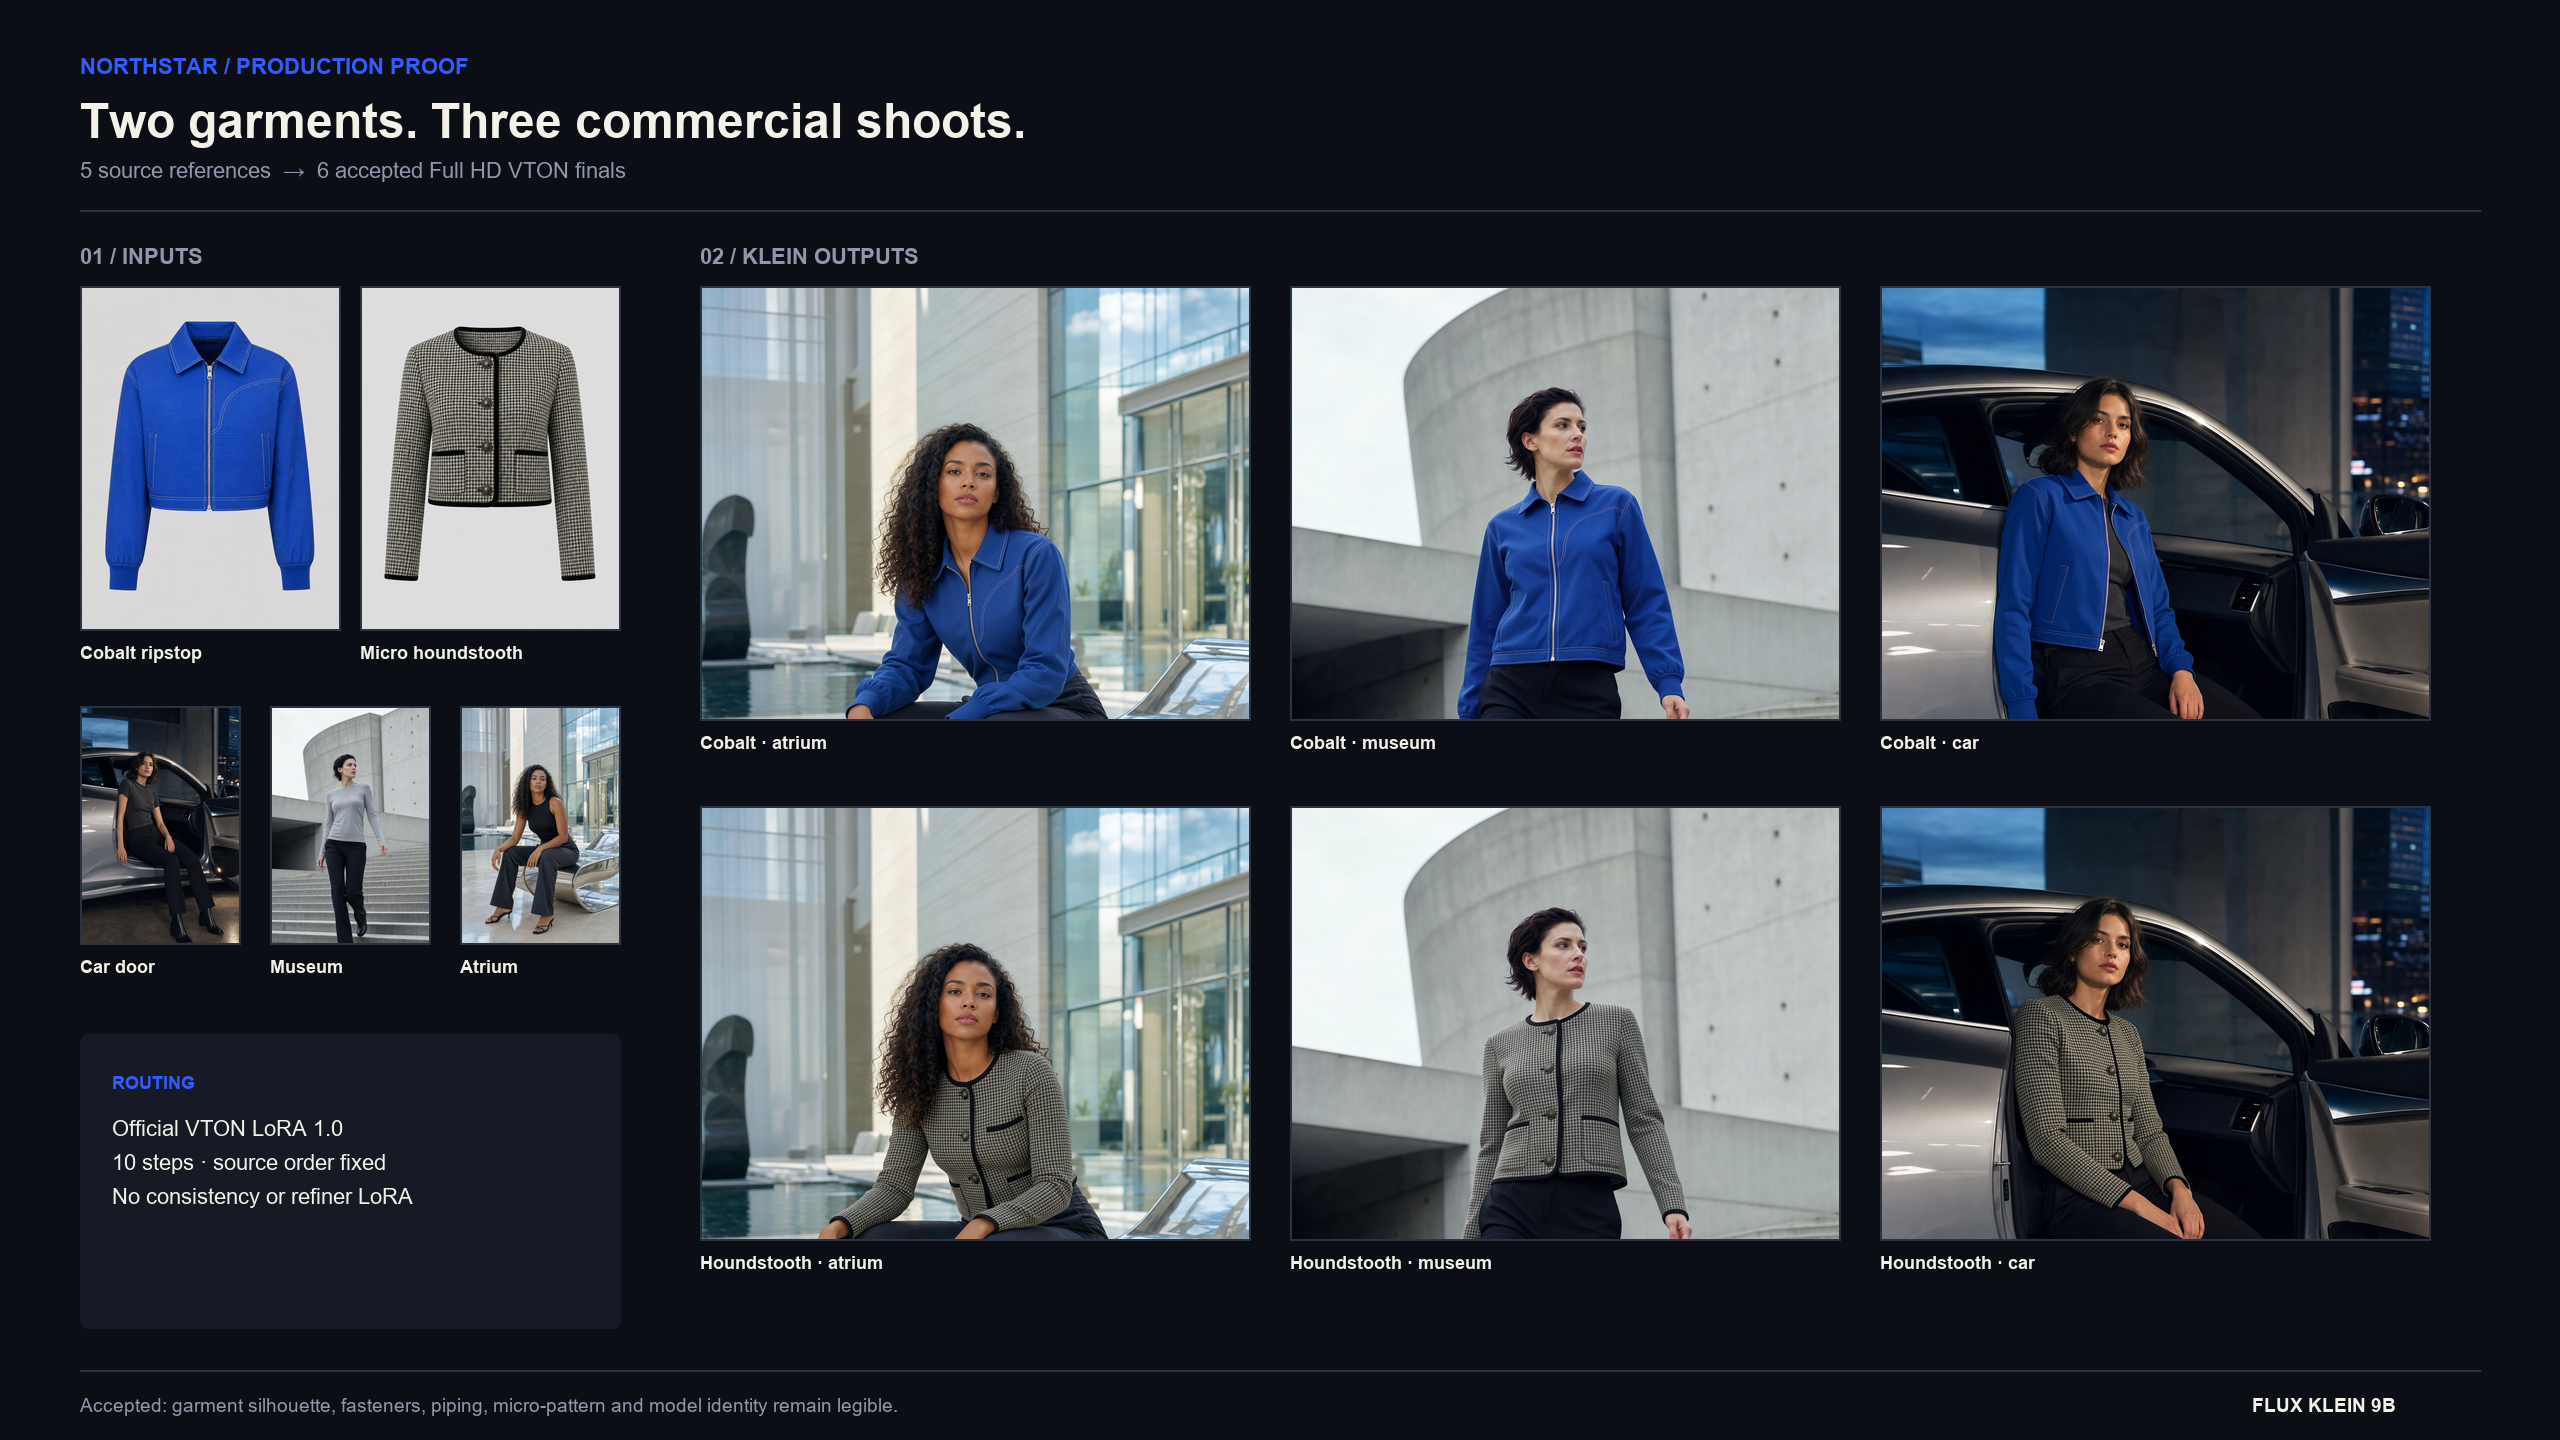
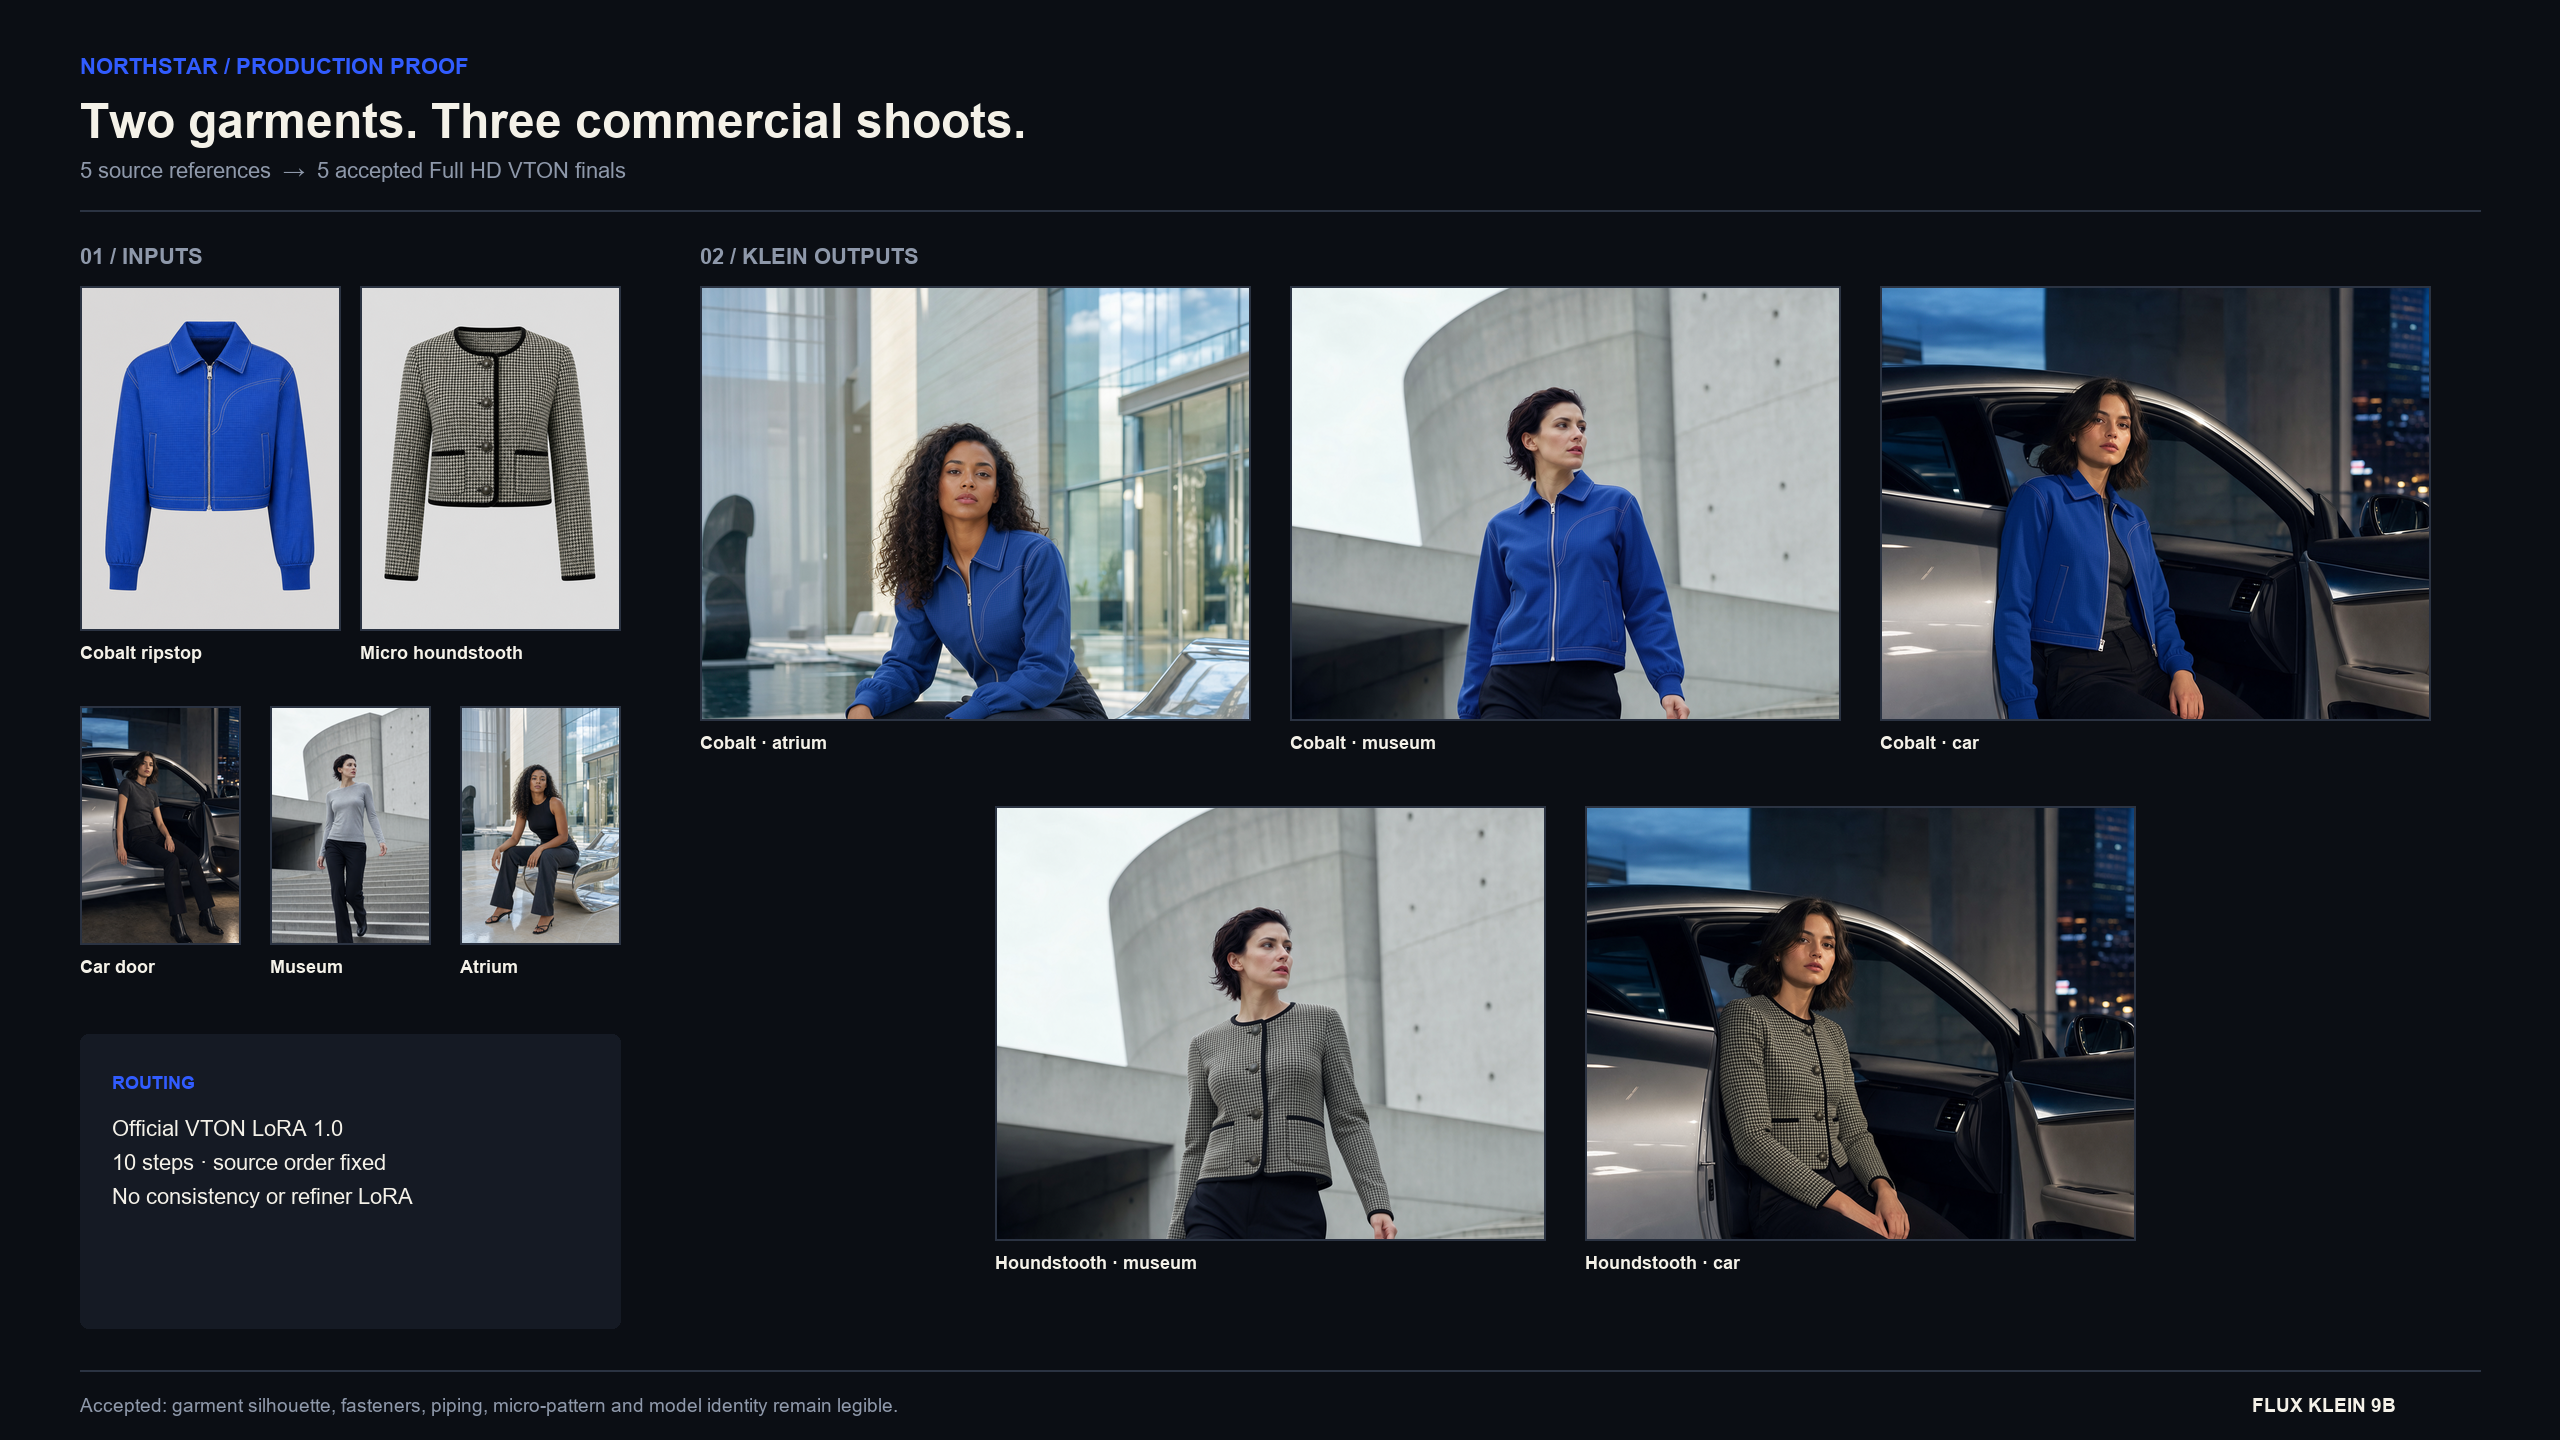
Remove inaccurate houndstooth proof frame

Changed region(s): [[0.25, 0.5625, 0.9688, 0.9062]]

diff --git a/index.html b/index.html
@@ -31,7 +31,7 @@
     </section>
 
     <section class="proof-rail" aria-label="Production proof">
-      <div><strong>38</strong><span>accepted Klein finals</span></div><div><strong>6</strong><span>commercial image systems</span></div><div><strong>100%</strong><span>Full HD or larger</span></div><div><strong>0</strong><span>VTON LoRAs outside fashion</span></div>
+      <div><strong>37</strong><span>accepted Klein finals</span></div><div><strong>6</strong><span>commercial image systems</span></div><div><strong>100%</strong><span>Full HD or larger</span></div><div><strong>0</strong><span>VTON LoRAs outside fashion</span></div>
     </section>
 
     <section id="work" class="section intro reveal">
@@ -41,7 +41,7 @@
     <article class="case fashion-case">
       <header class="case-header section reveal">
         <div class="case-number">01 / FASHION VTON</div><h2>Two garments.<br>Three editorial worlds.</h2>
-        <div class="case-summary"><p>A cobalt ripstop jacket and a micro-houndstooth cardigan are transferred onto three real commercial poses. The person, setting and lower outfit remain stable.</p><dl><div><dt>Route</dt><dd>Official Klein VTON</dd></div><div><dt>LoRA</dt><dd>VTON 1.0 only</dd></div><div><dt>Output</dt><dd>6 × 1088 × 1920</dd></div></dl></div>
+        <div class="case-summary"><p>A cobalt ripstop jacket and a micro-houndstooth cardigan are transferred onto three real commercial poses. The person, setting and lower outfit remain stable.</p><dl><div><dt>Route</dt><dd>Official Klein VTON</dd></div><div><dt>LoRA</dt><dd>VTON 1.0 only</dd></div><div><dt>Output</dt><dd>5 × 1088 × 1920</dd></div></dl></div>
       </header>
       <section class="source-ledger section reveal" aria-label="Fashion VTON supplied inputs">
         <div class="flow-heading"><span>SUPPLIED INPUTS</span><p>Two garment references and three untouched model photographs define the full transfer contract.</p></div>
@@ -62,7 +62,7 @@
         <p class="gallery-caption"><b>Commercial pose matrix</b><br>Car door · architectural walk · chrome lounge</p>
       </div>
       <div class="proof-panel section reveal">
-        <div class="proof-copy"><span>INPUT → KLEIN → SERIES</span><h3>The method is part of the work.</h3><p>Five supplied references become six production finals. The board exposes source garments, source models, exact routing and accepted outputs in one frame.</p><button class="text-button" data-full="assets/proof/fashion-input-to-output.png">Inspect full proof board ↗</button></div>
+        <div class="proof-copy"><span>INPUT → KLEIN → SERIES</span><h3>The method is part of the work.</h3><p>Five supplied references become five accepted production finals. The board exposes source garments, source models, exact routing and accepted outputs in one frame.</p><button class="text-button" data-full="assets/proof/fashion-input-to-output.png">Inspect full proof board ↗</button></div>
         <button class="media-button proof-image" data-full="assets/proof/fashion-input-to-output.png" aria-label="Open fashion proof board"><img src="assets/web/proof/fashion-input-to-output.webp" alt="Fashion input to output proof board" loading="lazy"></button>
       </div>
     </article>
